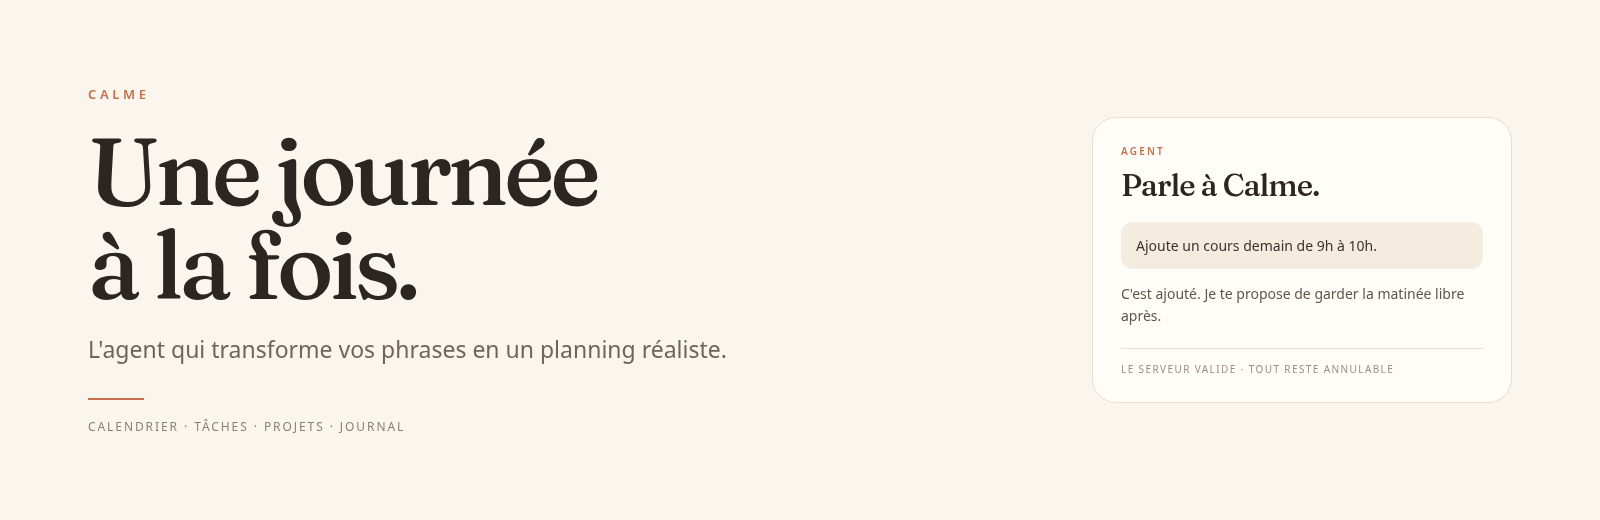
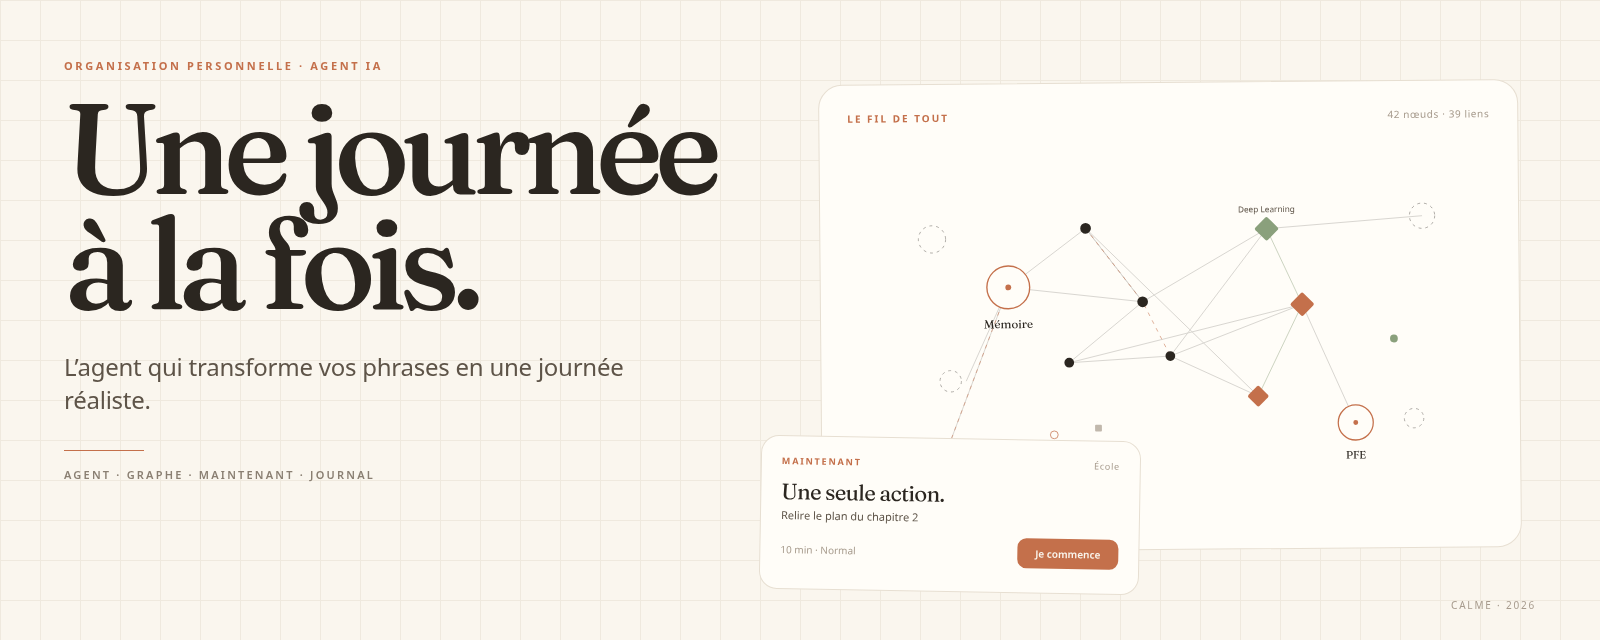
docs: soigner le README (#17)
- nouveau bandeau éditorial avec le graphe et la carte Maintenant
- hiérarchie plus visuelle, moins de texte et des sections mieux rythmées
- aperçu, film, graphe, fonctionnalités, agent, architecture et démarrage
- badge de tests à jour et liens vers la documentation

diff --git a/README.md b/README.md
@@ -1,32 +1,38 @@
 <div align="center">
-  <img src="docs/screenshots/banner.png" alt="Calme — une journée à la fois" width="100%">
+  <img src="docs/screenshots/banner.png" alt="Calme — une journée à la fois. Un agent, un graphe, une seule action." width="100%">
 </div>
 
 <div align="center">
   <a href="https://github.com/khadimmbaye0/calme/actions/workflows/ci.yml"><img alt="CI" src="https://github.com/khadimmbaye0/calme/actions/workflows/ci.yml/badge.svg?branch=main"></a>
   <a href="https://github.com/khadimmbaye0/calme/actions/workflows/validate-fixtures.yml"><img alt="Fixtures" src="https://github.com/khadimmbaye0/calme/actions/workflows/validate-fixtures.yml/badge.svg?branch=main"></a>
+  <img alt="Tests" src="https://img.shields.io/badge/tests-59%20backend%20%C2%B7%2038%20frontend-8AA07C?style=flat-square&amp;labelColor=2B2620">
+</div>
+
+<div align="center">
   <img alt="Java 21" src="https://img.shields.io/badge/Java-21-C4704B?style=flat-square&amp;labelColor=2B2620&amp;logo=openjdk&amp;logoColor=FAF6EE">
   <img alt="Spring Boot 3.5" src="https://img.shields.io/badge/Spring%20Boot-3.5-C4704B?style=flat-square&amp;labelColor=2B2620&amp;logo=springboot&amp;logoColor=FAF6EE">
   <img alt="React 19" src="https://img.shields.io/badge/React-19-8AA07C?style=flat-square&amp;labelColor=2B2620&amp;logo=react&amp;logoColor=FAF6EE">
   <img alt="PostgreSQL 16" src="https://img.shields.io/badge/PostgreSQL-16-8AA07C?style=flat-square&amp;labelColor=2B2620&amp;logo=postgresql&amp;logoColor=FAF6EE">
   <img alt="Docker Compose" src="https://img.shields.io/badge/Docker-Compose-2B2620?style=flat-square&amp;labelColor=C4704B&amp;logo=docker&amp;logoColor=FAF6EE">
   <img alt="Agent DeepSeek" src="https://img.shields.io/badge/Agent-DeepSeek-C4704B?style=flat-square&amp;labelColor=2B2620">
-  <img alt="Tests" src="https://img.shields.io/badge/tests-59%20backend%20%C2%B7%2038%20frontend-8AA07C?style=flat-square&amp;labelColor=2B2620">
 </div>
 
-<br>
+<p align="center">
+  <strong>Planifier moins. Garder de la marge. Respirer.</strong><br>
+  <sub>Un agent central, un calendrier qui protège les engagements, et une seule chose à la fois.</sub>
+</p>
 
-**Calme** est une application personnelle d'organisation qui transforme une phrase en une journée réaliste.
+> **MVP local fonctionnel** — calendrier, « Maintenant », projets, journal, agent DeepSeek et graphe de connaissance. Le digest, la replanification avancée et l'évaluation des variantes de commandes restent ouverts.
 
-Un agent central, un calendrier qui protège les engagements, un écran « Maintenant » qui n'affiche qu'une action, et un journal qui rend chaque décision annulable.
+---
 
-> **MVP local fonctionnel** — calendrier, « Maintenant », projets, journal, agent DeepSeek, graphe de connaissance et interface responsive. Le digest, la replanification avancée et l'évaluation des variantes de commandes restent ouverts.
+## Le film
 
-## En mouvement
+<img src="docs/screenshots/calme-motion.gif" alt="Film de présentation de Calme — 20 secondes" width="100%">
 
-<img src="docs/screenshots/calme-motion.gif" alt="Animation de présentation de Calme" width="100%">
+<p align="center"><sub>20 secondes, une bande sonore originale — <a href="docs/videos/calme-motion.mp4"><strong>voir le film sonore</strong></a> · <a href="docs/MOTION.md">storyboard, son et fabrication</a>.<br>Le GIF est un aperçu muet ; le MP4 contient le son.</sub></p>
 
-<p align="center"><sub>Boucle de 20 secondes — <a href="docs/videos/calme-motion.mp4"><strong>voir le film sonore (MP4)</strong></a> · <a href="docs/MOTION.md">storyboard, son et fabrication</a>.<br>Le GIF est un aperçu muet ; le MP4 contient la bande sonore originale.</sub></p>
+---
 
 ## Aperçu
 
@@ -38,7 +44,11 @@ Un agent central, un calendrier qui protège les engagements, un écran « Maint
 
 <img src="docs/screenshots/graph.png" alt="Graphe de connaissance reliant projets, tâches, moments, énergie, blocs, journal et messages" width="100%">
 
-<p align="center"><sub>Un graphe en lecture seule : filtres, recherche, détail au clic, zoom et déplacement.</sub></p>
+<p align="center"><sub>Projets, tâches, moments, énergie, blocs, journal et messages — dans une seule carte.</sub></p>
+
+Le **graphe de connaissance** est une lecture de ce que Calme organise déjà. Il relie les projets à leurs tâches, les tâches à leurs dépendances et à leurs créneaux, les actions du journal à leur cible, l'énergie aux tâches reportées, et les blocs d'alternance aux dates qu'ils couvrent.
+
+Filtres par famille, recherche, zoom, déplacement et détail au clic. Le graphe est **en lecture seule** : il ne crée aucune donnée et n'est jamais envoyé au LLM. Les relations et les limites sont documentées dans [`docs/GRAPH.md`](docs/GRAPH.md).
 
 ### Calendrier, projets, journal et mobile
 
@@ -50,28 +60,46 @@ Un agent central, un calendrier qui protège les engagements, un écran « Maint
 
 <p align="center"><sub>Captures réalisées avec un jeu de données de démonstration.</sub></p>
 
+---
+
 ## Ce que fait Calme
 
-### Agent central
-Parle naturellement : « ajoute un cours demain de 9h à 10h », « qu'est-ce que je fais maintenant ? », « planifie mon mémoire ». L'agent appelle des outils, le backend vérifie, puis l'action est journalisée.
+<table>
+  <tr>
+    <td width="50%" valign="top"><strong>Agent central</strong><br>Une phrase suffit. L'agent appelle des outils, le backend vérifie les règles, puis l'action est journalisée et annulable.</td>
+    <td width="50%" valign="top"><strong>Maintenant</strong><br>Une seule action, 25 minutes maximum. L'énergie se déclare en un geste ; en énergie basse, les tâches non critiques sont reportées.</td>
+  </tr>
+  <tr>
+    <td valign="top"><strong>Calendrier</strong><br>Vue jour, événements fixes, planifiés et disponibilités. Les conflits sont signalés avant écriture.</td>
+    <td valign="top"><strong>Projets</strong><br>Objectif, échéance, étapes, dépendances validées en DAG et buffer de 20 % minimum.</td>
+  </tr>
+  <tr>
+    <td valign="top"><strong>Journal & contrôle</strong><br>Les 30 dernières actions sont visibles, expliquées et annulables. Les suppressions et les gros plans demandent confirmation.</td>
+    <td valign="top"><strong>Graphe</strong><br>Tout ce qui est organisé, relié dans une carte calme. Une lecture, pas une nouvelle source de vérité.</td>
+  </tr>
+</table>
 
-### Calendrier
-Vue jour, événements fixes, planifiés et disponibilités. Les conflits sont signalés avant écriture ; les événements fixes ne sont jamais déplacés silencieusement.
+---
 
-### Maintenant
-Une seule action, avec une durée maximale de 25 minutes et un titre de 80 caractères. L'énergie se déclare en un geste ; en énergie basse, les tâches non critiques sont reportées.
+## L'agent, sous contrôle
 
-### Projets
-Objectif, échéance, étapes, dépendances validées en DAG, buffer de 20 % minimum et planification dans les créneaux libres. La progression se met à jour à chaque étape terminée.
+> **Vous** — Ajoute un cours demain de 9h à 10h.
+>
+> **Calme** — C'est ajouté. Je garde la matinée libre après.
 
-### Journal et contrôle
-Les 30 dernières actions sont visibles, expliquées en une phrase et annulables. Une suppression d'événement ou un plan de plus de 10 éléments demande une confirmation.
+Le modèle **propose** des appels d'outils : calendrier, tâches, projets, énergie, Maintenant et journal. Le backend applique les règles de conflit, de capacité, de dépendance et de confirmation, puis journalise l'action avec son inverse. Le LLM ne touche jamais directement la base.
 
-### Graphe de connaissance
-Une carte en lecture seule relie projets, tâches, dépendances, moments, énergie, blocs, actions et messages. Filtres par famille, recherche, panneau de détail et navigation au clic. Le graphe ne crée aucune donnée et ne part jamais vers le LLM.
+Sans clé, l'application démarre en mode `simulated` et ne fait aucun appel réseau. Pour le mode réel :
 
-### Interface
-Papier chaud, titres Fraunces, cartes filaires et aucune animation décorative. Le chat, les formulaires et les listes restent utilisables de 320 px au desktop.
+```bash
+DEEPSEEK_API_KEY=<votre-clé>
+CALME_LLM_MODE=deepseek
+DEEPSEEK_MODEL=deepseek-flash
+```
+
+La clé reste dans `.env`, ignoré par Git. Le contrat complet est dans [`docs/AGENT_CONTRACT.md`](docs/AGENT_CONTRACT.md).
+
+---
 
 ## Architecture
 
@@ -83,9 +111,10 @@ flowchart LR
   API --> LLM["DeepSeek · tool calling"]
   LLM -->|"outils validés"| SERVICES
   SERVICES --> JOURNAL["Journal & undo"]
+  JOURNAL --> DB
+  API --> GRAPH["Graphe · lecture seule"]
+  GRAPH --> DB
 ```
-
-Le LLM ne touche jamais la base. Il propose des appels d'outils ; le backend applique les règles de conflit, de capacité, de dépendances et de confirmation, puis journalise l'action et son inverse.
 
 | Couche | Choix |
 |---|---|
@@ -95,7 +124,9 @@ Le LLM ne touche jamais la base. Il propose des appels d'outils ; le backend app
 | Agent | DeepSeek tool calling, mode `simulated` sans réseau |
 | Déploiement | Docker Compose, Nginx, healthchecks |
 
-## Démarrage rapide
+---
+
+## Démarrer
 
 ```bash
 git clone https://github.com/khadimmbaye0/calme.git
@@ -108,7 +139,7 @@ Le script crée `.env` si nécessaire, génère les secrets locaux, construit la
 Ouvrir **<http://localhost:5173>**. Compte local : `local@calme.invalid`.
 
 ```bash
-make up          # équivalent
+make up                  # équivalent
 docker compose down
 docker compose down -v   # supprime aussi les données locales
 ```
@@ -116,7 +147,7 @@ docker compose down -v   # supprime aussi les données locales
 Seul le port frontend est publié ; PostgreSQL et Spring restent sur le réseau Compose. Le port `FRONTEND_PORT` vaut `5173` par défaut.
 
 <details>
-<summary>Configuration manuelle et développement</summary>
+<summary>Développement manuel</summary>
 
 ```bash
 cp .env.example .env
@@ -144,43 +175,7 @@ L'API détaillée et les exemples `curl` sont dans [`docs/API.md`](docs/API.md).
 
 </details>
 
-<details>
-<summary>Voir l'écran de connexion</summary>
-
-<img src="docs/screenshots/login.png" alt="Écran de connexion Calme" width="720">
-
-</details>
-
-## Agent et DeepSeek
-
-L'agent est accessible par l'onglet **Agent**, sélectionné par défaut. Il utilise le tool calling DeepSeek : le modèle propose, le backend décide.
-
-| Domaine | Outils |
-|---|---|
-| Calendrier | `calendar_list` · `calendar_create` · `calendar_update` · `calendar_delete` |
-| Tâches | `task_list` · `task_create` · `task_start` · `task_complete` · `task_defer` |
-| Projets | `project_list` · `project_plan` |
-| Énergie / Maintenant | `energy_set` · `now_get` |
-| Journal | `journal_list` · `journal_undo` |
-
-```text
-Vous  ·  Ajoute un cours demain de 9h à 10h.
-Calme ·  C'est ajouté. Je te propose de garder la matinée libre après.
-```
-
-Une suppression d'événement est toujours confirmée. Un plan de projet qui touche plus de 10 éléments aussi. Le backend ne valide l'action qu'après confirmation et la journalise avec son inverse.
-
-### Activer DeepSeek
-
-Sans clé, l'application démarre en mode `simulated` et ne fait aucun appel réseau. Pour le mode réel, dans `.env` :
-
-```bash
-DEEPSEEK_API_KEY=<votre-clé>
-CALME_LLM_MODE=deepseek
-DEEPSEEK_MODEL=deepseek-flash
-```
-
-La clé reste dans `.env`, ignoré par Git. Le contrat complet est dans [`docs/AGENT_CONTRACT.md`](docs/AGENT_CONTRACT.md).
+---
 
 ## Sécurité et données
 
@@ -190,6 +185,8 @@ La clé reste dans `.env`, ignoré par Git. Le contrat complet est dans [`docs/A
 - Les secrets restent dans `.env` (ignoré, mode `600`) et ne sont jamais intégrés aux images.
 - En mode DeepSeek, le message, la date, le bloc, l'énergie et les données nécessaires aux outils transitent par l'API. Pas de mot de passe, secret ou donnée d'entreprise.
 - Le mode `simulated` reste disponible pour développer sans réseau.
+
+---
 
 ## Tests et qualité
 
@@ -202,30 +199,7 @@ La clé reste dans `.env`, ignoré par Git. Le contrat complet est dans [`docs/A
 
 Les tests backend utilisent Testcontainers PostgreSQL ; les tests frontend Vitest et Testing Library. La CI vérifie chaque pull request, ainsi que GitGuardian.
 
-## Structure
-
-```text
-backend/src/main/java/com/calme/
-  agent/       boucle LLM, outils, confirmations, messages
-  calendar/    événements, conflits, disponibilités
-  tasks/       tâches et états
-  projects/    projets, dépendances, buffer, planification
-  planner/     règles de capacité et écran Maintenant
-  journal/     actions, inverses et undo
-  graph/       nœuds et relations en lecture seule
-  energy/      énergie déclarée
-  blocks/      blocs d'alternance
-  auth/ user/  session locale et compte unique
-
-frontend/src/
-  components/  AgentPanel, CalendarScreen, NowPanel, Projects, Journal, KnowledgeGraphPanel
-  api/         client typé (dont graph.ts)
-  lib/         dates, helpers et layout du graphe
-
-docs/          spec, décisions, contrat agent, API, graphe, design
-scripts/       up.sh, validate_fixtures.py
-compose.yaml
-```
+---
 
 ## Roadmap
 
@@ -236,6 +210,7 @@ compose.yaml
 - [x] Projets, dépendances et buffer
 - [x] Journal et annulation
 - [x] Agent conversationnel DeepSeek
+- [x] Graphe de connaissance
 - [x] Interface minimaliste et responsive
 - [x] Déploiement en une commande
 - [ ] Digest quotidien
@@ -243,6 +218,8 @@ compose.yaml
 - [ ] Import/édition des blocs d'alternance
 - [ ] Évaluation des 20 variantes de commandes
 - [ ] Rate limiting de l'agent et sauvegardes
+
+---
 
 ## Documentation
 
@@ -257,7 +234,8 @@ compose.yaml
 | [`docs/PLAN.md`](docs/PLAN.md) | Plan de livraison |
 | [`docs/QUESTIONS.md`](docs/QUESTIONS.md) | Questions encore ouvertes |
 | [`docs/DESIGN_TOKENS.md`](docs/DESIGN_TOKENS.md) | Palette, typographie et règles visuelles |
+| [`docs/MOTION.md`](docs/MOTION.md) | Storyboard, son et fabrication du film |
 
 <div align="center">
-  <sub>Calme — projet personnel. Les captures utilisent des données de démonstration.</sub>
+  <sub>Calme — projet personnel. Captures et film réalisés avec des données de démonstration.</sub>
 </div>
